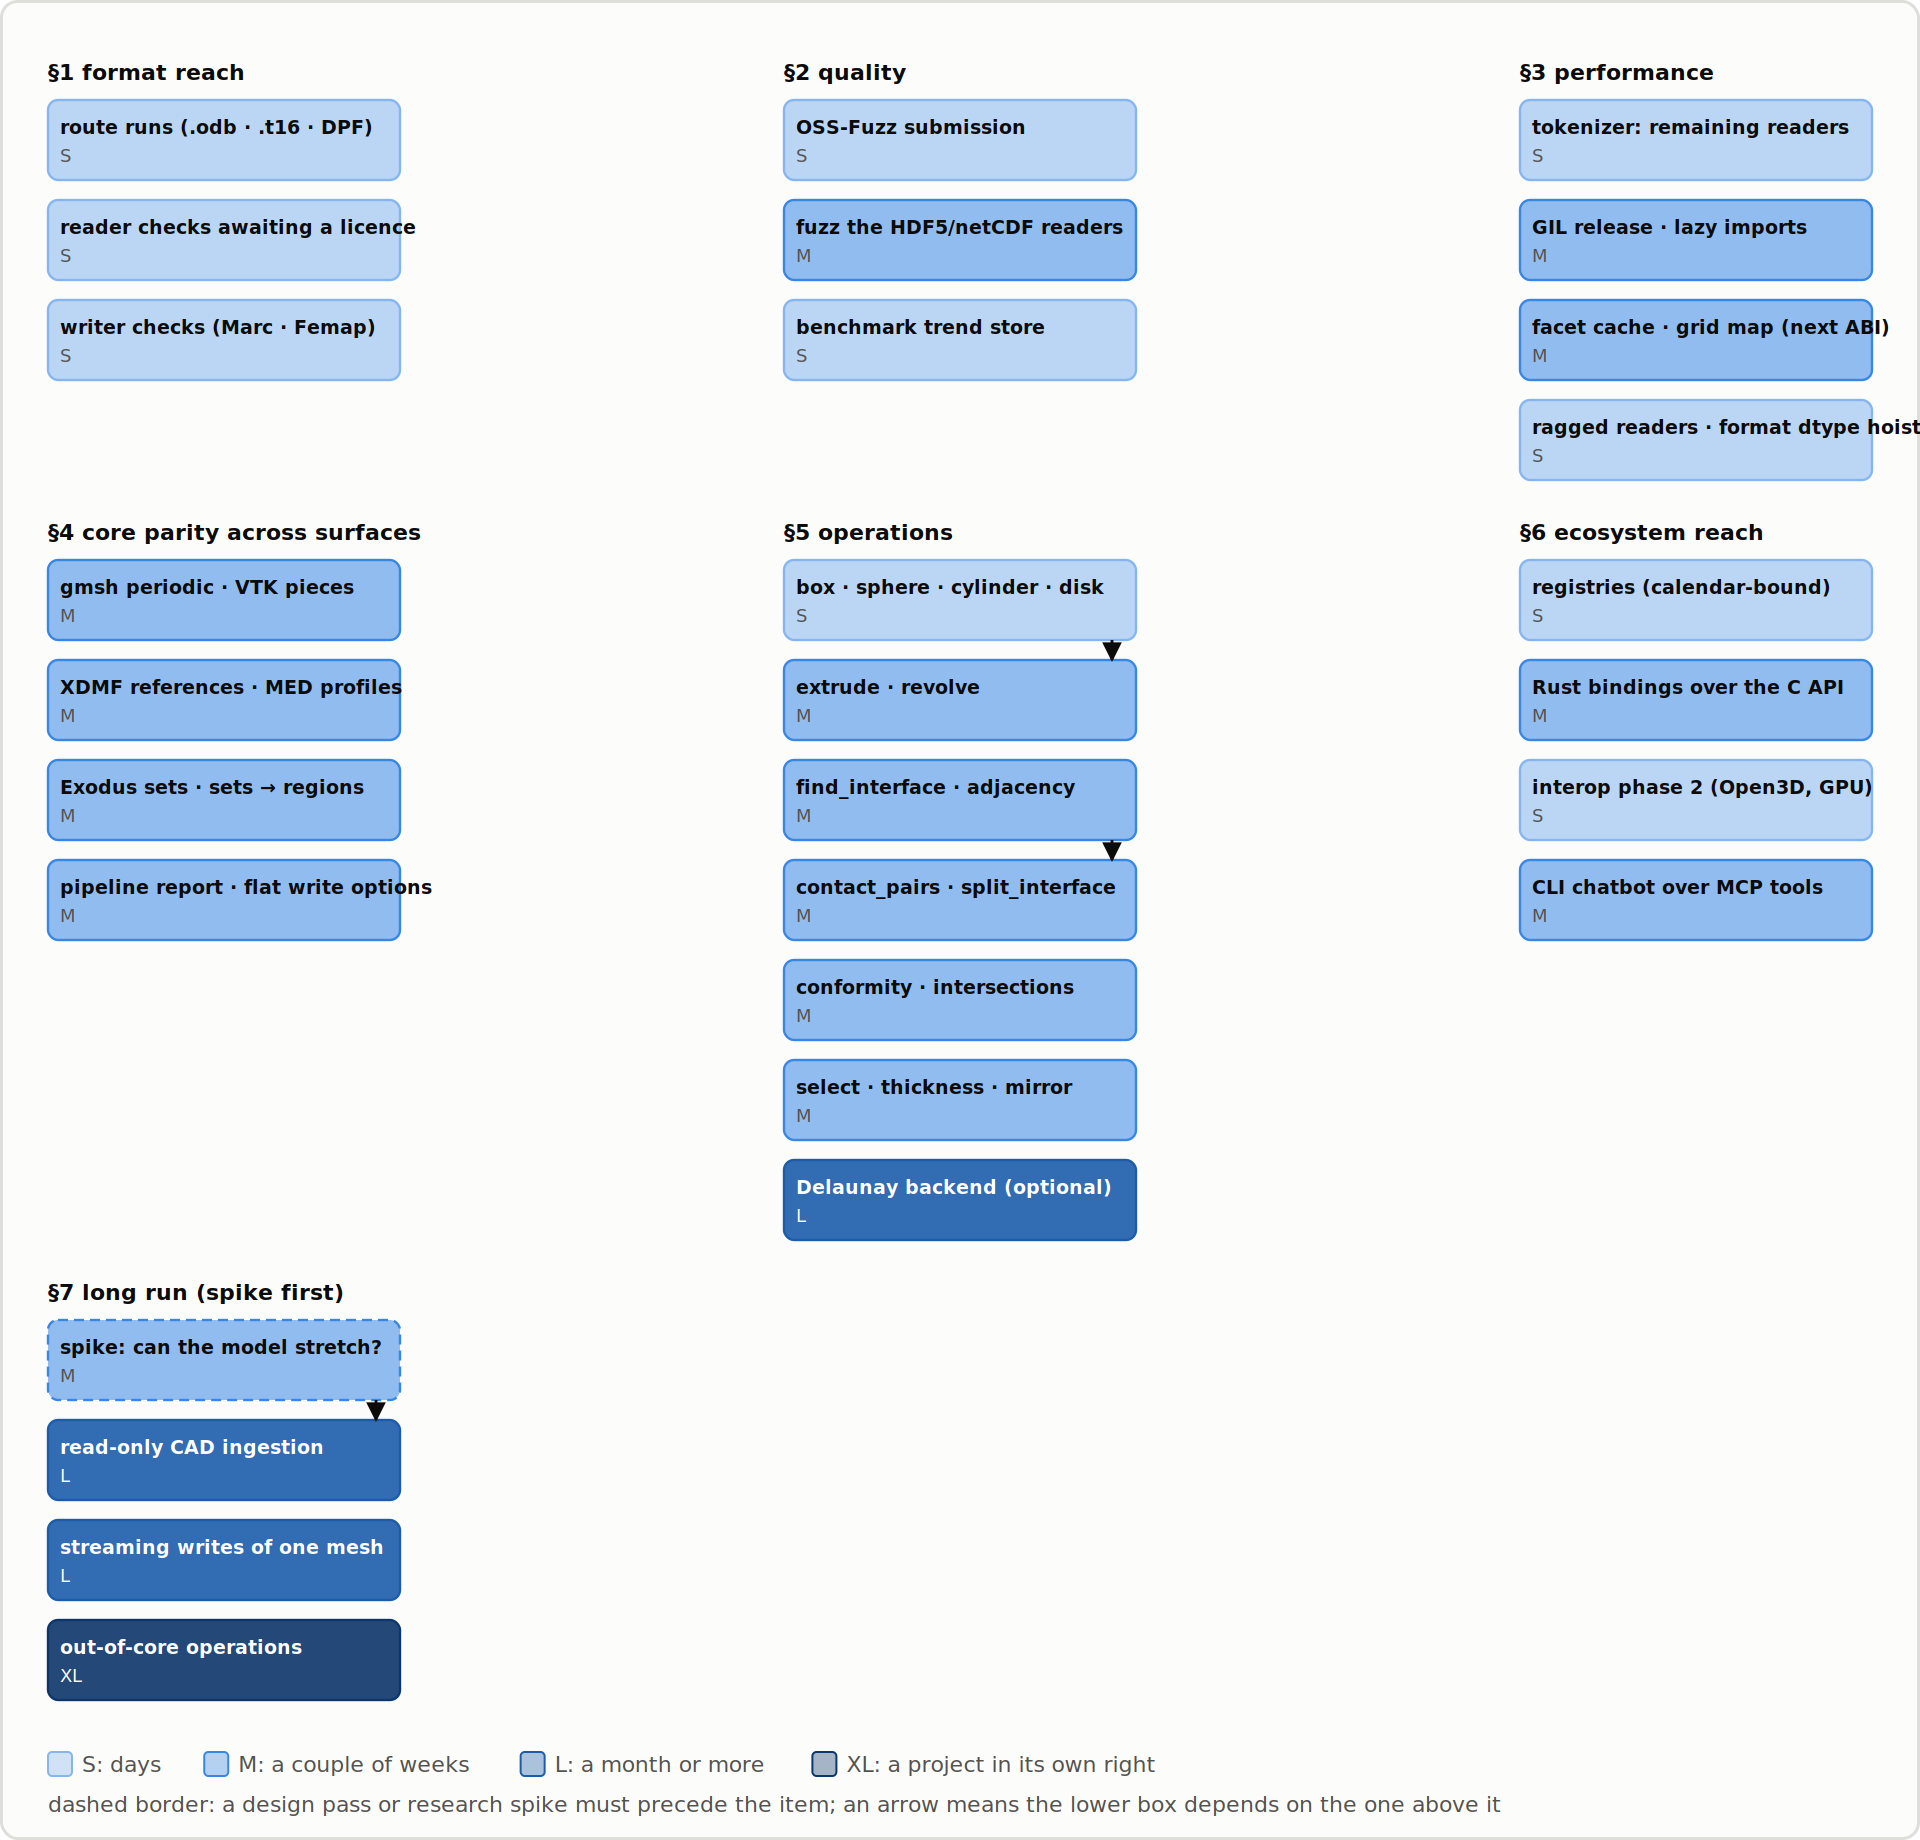
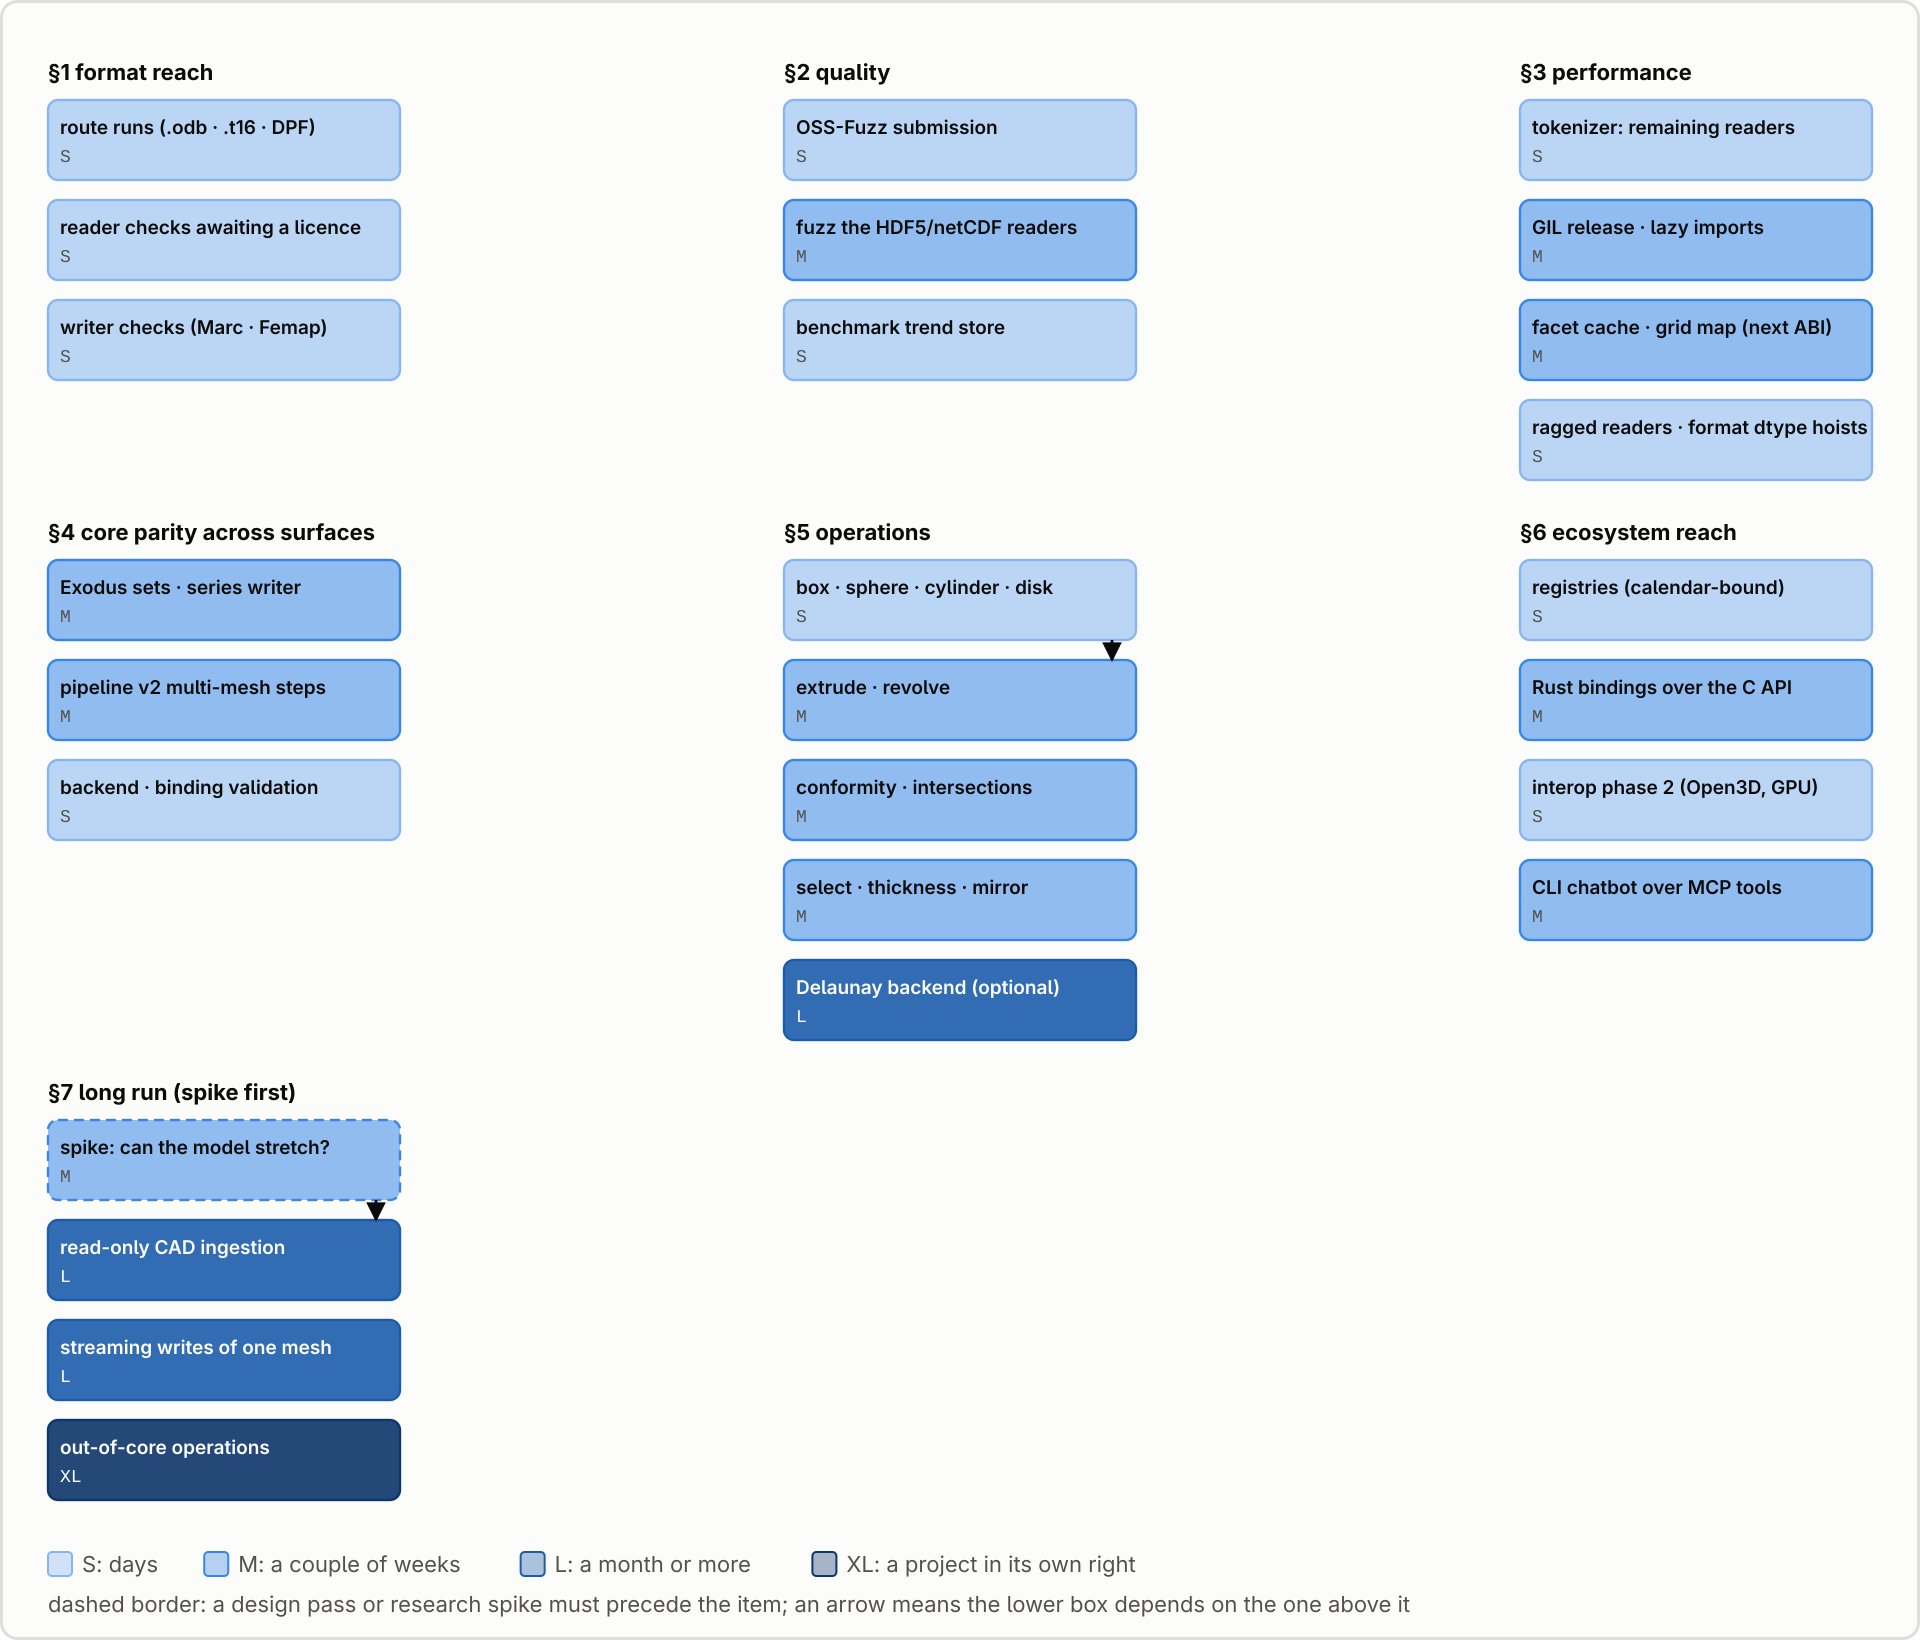
Refactor roadmap items and update diagrams
- Updated the roadmap in `flows.py` to reflect changes in core parity across surfaces, including new items for Exodus writer and pipeline steps.
- Modified the SVG diagram to match the updated roadmap, adjusting item descriptions and layout.
- Revised the markdown roadmap to consolidate validation tasks and clarify remaining backend checks, ensuring alignment with the updated diagram and code.

diff --git a/doc/diagrams/figures/flows.py b/doc/diagrams/figures/flows.py
@@ -971,10 +971,9 @@ def roadmap_map():
         (
             "§4 core parity across surfaces",
             [
-                ("gmsh periodic · VTK pieces", "M"),
-                ("XDMF references · MED profiles", "M"),
-                ("Exodus sets · sets → regions", "M"),
-                ("pipeline report · flat write options", "M"),
+                ("Exodus sets · series writer", "M"),
+                ("pipeline v2 multi-mesh steps", "M"),
+                ("backend · binding validation", "S"),
             ],
             [],
         ),
@@ -983,13 +982,11 @@ def roadmap_map():
             [
                 ("box · sphere · cylinder · disk", "S"),
                 ("extrude · revolve", "M"),
-                ("find_interface · adjacency", "M"),
-                ("contact_pairs · split_interface", "M"),
                 ("conformity · intersections", "M"),
                 ("select · thickness · mirror", "M"),
                 ("Delaunay backend (optional)", "L"),
             ],
-            [(0, 1), (2, 3)],
+            [(0, 1)],
         ),
         (
             "§6 ecosystem reach",

diff --git a/doc/roadmap.md b/doc/roadmap.md
@@ -164,14 +164,12 @@ Two findings frame the section. First, **the serial phases below are deliberate*
 
 *Admission: something the Python layer can do that the C++ core cannot, or that the core can do and a binding cannot reach.* A construct that forces the Python fallback is not "slower from C" — it is **unreadable** from C, Fortran, Julia, R, WASM and the native CLI, none of which has a fallback. Ordered by this project's own consumers, Kratos first.
 
-- **4.1 XDMF 2 and XPath references — remaining validation.** Complete the optional-library-disabled and KRATOS mesh-backend checks ([XDMF](./formats/xdmf.md)). **S**
-- **4.2 MED multi-mesh files and profiles — remaining validation.** Complete KRATOS, HDF5-disabled and R runtime checks for named enumeration/selection/writes and ordinary nodal/element profile expansion ([MED](./formats/med.md)). **S**
-- **4.3 Netgen extras — remaining validation.** Complete the zlib-disabled and KRATOS mesh-backend checks ([Netgen](./formats/netgen.md)). **S**
-- **4.4 An Exodus writer that carries sets and steps.** It writes element blocks but no node sets or side sets, so only element-block regions round-trip, and it writes one step per file; a multi-step writer is a stateful object of the `XdmfTimeSeriesWriter` shape ([Exodus](./formats/exodus.md)). **M**
-- **4.5 Pipeline v2 multi-mesh steps and remaining report validation.** Add per-step `Inputs:` for `Merge`/`Interpolate`/`UndoGreen` and `Output.Pattern` for `Split`/partition, with Python/WASM parity and MCP sandbox handling. Finish JSON-disabled and R runtime checks for the additive caller-buffer report APIs ([pipelines](./pipeline.md)). **S–M**
-- **4.6 PCD `binary_compressed` — remaining binding validation.** Finish R runtime checks ([PCD](./formats/pcd.md)). **S**
-- **4.7 glTF write options — remaining binding validation.** Finish R runtime checks ([glTF](./formats/gltf.md)). **S**
-- **4.8 Sets↔data — remaining validation.** Complete KRATOS and R runtime checks ([sets/data semantics](./data_manage.md#sets--integer-data)). **S**
+- **4.1 An Exodus writer that carries sets and steps.** It writes element blocks but no node sets or side sets, so only element-block regions round-trip, and it writes one step per file; a multi-step writer is a stateful object of the `XdmfTimeSeriesWriter` shape ([Exodus](./formats/exodus.md)). **M**
+- **4.2 Pipeline v2 multi-mesh steps.** Add per-step `Inputs:` for `Merge`/`Interpolate`/`UndoGreen` and `Output.Pattern` for `Split`/partition, with Python/WASM parity and MCP sandbox handling ([pipelines](./pipeline.md)). **S–M**
+- **4.3 Remaining backend and binding validation.** Implementation is in place; close these checks before considering parity complete. **S per group**
+  - **4.3.1 KRATOS mesh backend.** Validate [XDMF 2/references](./formats/xdmf.md), [MED named multi-mesh files and profiles](./formats/med.md), [Netgen extras](./formats/netgen.md) and [sets↔data](./data_manage.md#sets--integer-data).
+  - **4.3.2 Optional libraries disabled.** Validate XDMF without its optional libraries, MED without HDF5, Netgen without zlib and caller-buffer pipeline reports without JSON support.
+  - **4.3.3 R runtime.** Validate MED named multi-mesh files/profiles, pipeline reports, [PCD `binary_compressed`](./formats/pcd.md), [glTF write options](./formats/gltf.md) and sets↔data.
 
 ---
 
